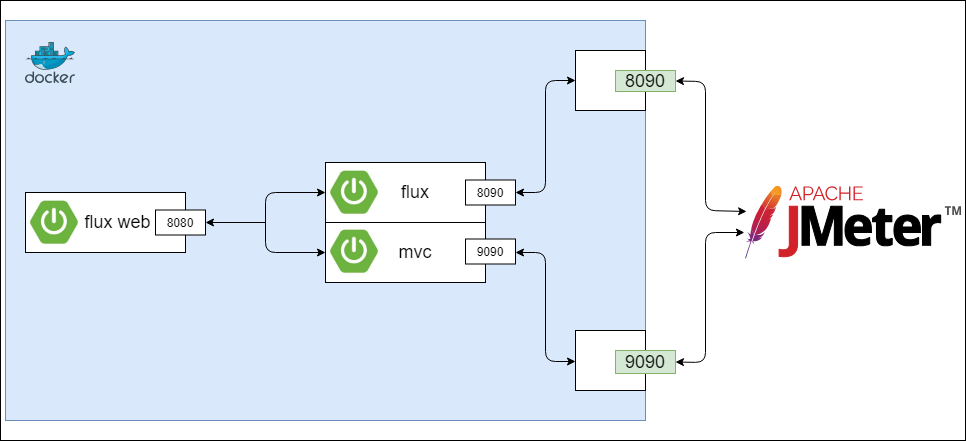
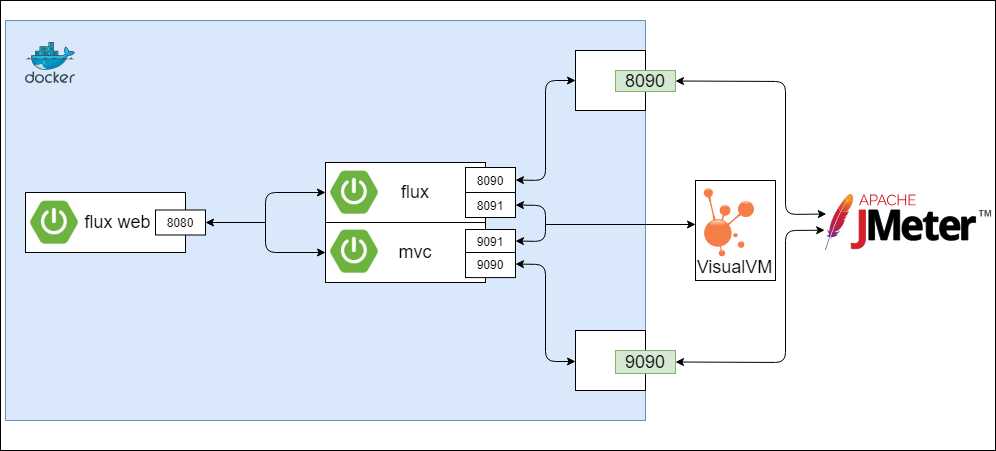
add jmx and fix can't jmap dump problem

diff --git a/readme.md b/readme.md
@@ -8,10 +8,10 @@ SPRING MVC VS. SPRING WEBFLUX
    - under folder web: `docker build -t vioao/web .`
 
 2. run the service with limited cpu and memory
-   - run service web: `docker run --cpus=0.2 --memory=1g -p 8080:8080 -p 8081:8081 -e JAVA_OPTS="-Dcom.sun.management.jmxremote.authenticate=false -Dcom.sun.management.jmxremote.ssl=false -Djava.rmi.server.hostname=127.0.0.1 -Dcom.sun.management.jmxremote.port=8081 -Dcom.sun.management.jmxremote.rmi.port=8081" vioao/web`
+   - run service web: `docker run --init --cpus=0.2 --memory=1g -p 8080:8080 -p 8081:8081 -e JAVA_OPTS="-Dcom.sun.management.jmxremote.authenticate=false -Dcom.sun.management.jmxremote.ssl=false -Djava.rmi.server.hostname=127.0.0.1 -Dcom.sun.management.jmxremote.port=8081 -Dcom.sun.management.jmxremote.rmi.port=8081" vioao/web`
    - get the IPAddress of service web： `docker inspect ${service web's ContainerId}`
-   - run service flux： `docker run --cpus=0.2 --memory=1g -p 8090:8090 -p 8091:8091 -e JAVA_OPTS=-Durl="http://${IPAddress}:8080 -Dcom.sun.management.jmxremote.authenticate=false -Dcom.sun.management.jmxremote.ssl=false -Djava.rmi.server.hostname=127.0.0.1 -Dcom.sun.management.jmxremote.port=8091 -Dcom.sun.management.jmxremote.rmi.port=8091" vioao/flux`
-   - run service mvc： `docker run --cpus=0.2 --memory=1g -p 9090:9090 -p 9091:9091 -e JAVA_OPTS="-Durl=http://${IPAddress}:8080 -Dcom.sun.management.jmxremote.authenticate=false -Dcom.sun.management.jmxremote.ssl=false -Djava.rmi.server.hostname=127.0.0.1 -Dcom.sun.management.jmxremote.port=9091 -Dcom.sun.management.jmxremote.rmi.port=9091" vioao/mvc`
+   - run service flux： `docker run --init --cpus=0.2 --memory=1g -p 8090:8090 -p 8091:8091 -e JAVA_OPTS=-Durl="http://${IPAddress}:8080 -Dcom.sun.management.jmxremote.authenticate=false -Dcom.sun.management.jmxremote.ssl=false -Djava.rmi.server.hostname=127.0.0.1 -Dcom.sun.management.jmxremote.port=8091 -Dcom.sun.management.jmxremote.rmi.port=8091" vioao/flux`
+   - run service mvc： `docker run --init --cpus=0.2 --memory=1g -p 9090:9090 -p 9091:9091 -e JAVA_OPTS="-Durl=http://${IPAddress}:8080 -Dcom.sun.management.jmxremote.authenticate=false -Dcom.sun.management.jmxremote.ssl=false -Djava.rmi.server.hostname=127.0.0.1 -Dcom.sun.management.jmxremote.port=9091 -Dcom.sun.management.jmxremote.rmi.port=9091" vioao/mvc`
    
 3. begin performance test with jmeter, just import the configuration file under folder jmeter and configure the thread group by yourself.
 
